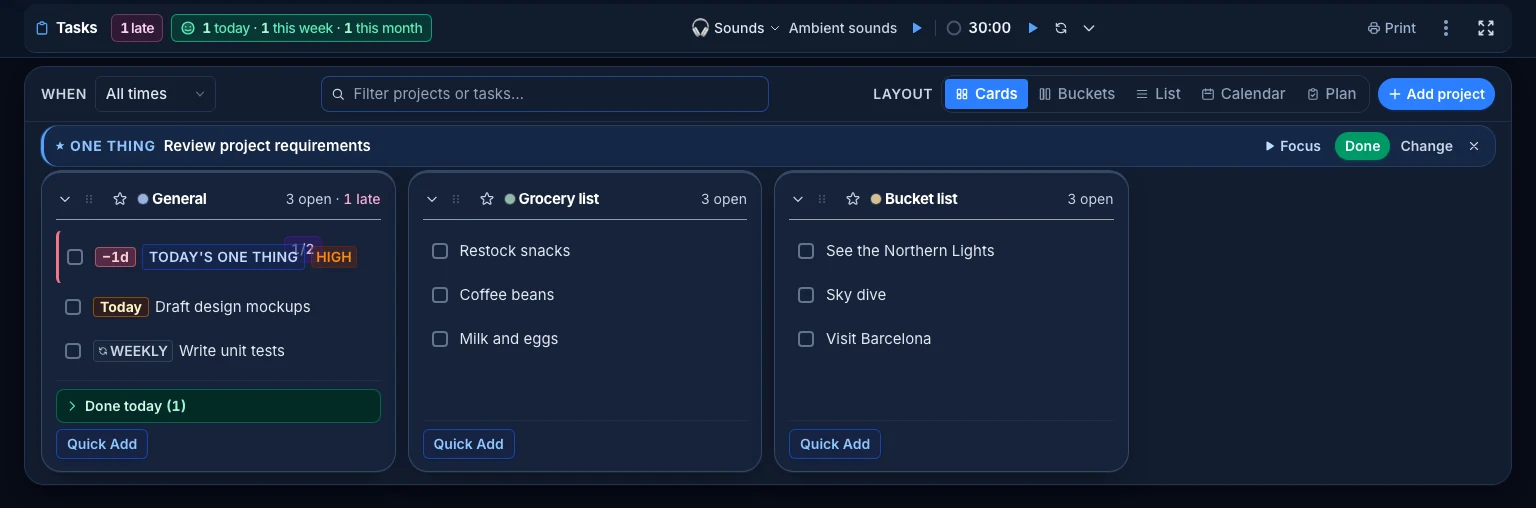
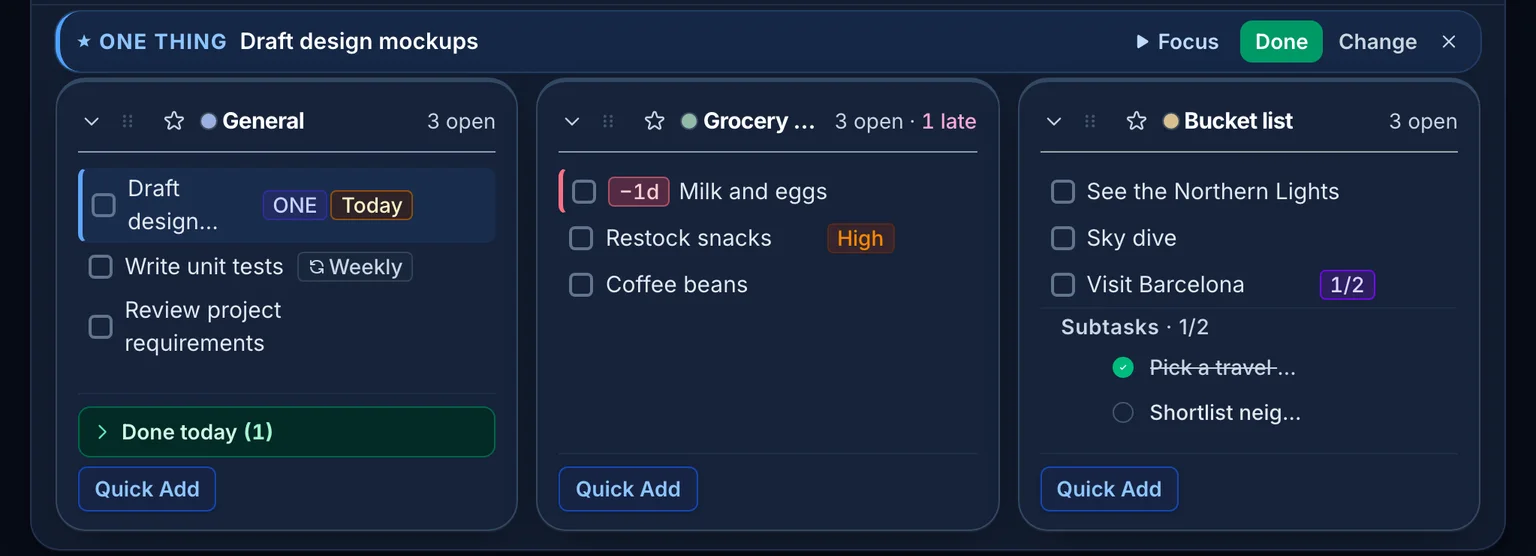
Put navbar tools in one chrome family, and refresh the homepage board preview.

diff --git a/src/components/Navbar.tsx b/src/components/Navbar.tsx
@@ -19,9 +19,9 @@ import { appViewPath, isExactTasksAppPath, isTasksAppPath } from "@/lib/task-vie
 interface NavbarProps {
   /** When set (e.g. on /app), shows a settings button in the nav bar. */
   onOpenSettings?: () => void;
-  /** Extra actions shown before theme toggle (e.g. collaboration invites on /app). */
+  /** App tools (due bell, sharing) — sits with Settings, before theme + avatar. */
   toolbarSlot?: ReactNode;
-  /** Optional center content between logo and nav links (kept empty by default — promo belongs outside the task workspace). */
+  /** Optional center content between logo and nav links (clock, weather, partner promo). */
   centerSlot?: ReactNode;
 }
 
@@ -59,9 +59,8 @@ function navLinkClass(active: boolean, mobile = false) {
     : "nav-chrome-link text-[0.9375rem] transition-colors";
 }
 
-const chromeBtn = "nav-chrome-btn rounded-lg";
-const chromeBtnPad = `${chromeBtn} p-2`;
-const chromeBtnSettings = `${chromeBtn} flex items-center gap-1.5 px-2.5 py-1.5 rounded-lg text-[0.9375rem]`;
+const chromeIconBtn = "nav-chrome-icon-btn";
+const chromeLabelBtn = "nav-chrome-label-btn";
 
 function NavbarContent({ onOpenSettings, toolbarSlot, centerSlot }: NavbarProps) {
   const { user } = useAuth();
@@ -214,12 +213,11 @@ function NavbarContent({ onOpenSettings, toolbarSlot, centerSlot }: NavbarProps)
             ) : null}
             <div className="flex items-center gap-0.5">
               {toolbarSlot}
-              <ThemeToggle className={chromeBtnPad} />
               {onOpenSettings && (
                 <button
                   type="button"
                   onClick={onOpenSettings}
-                  className={chromeBtnSettings}
+                  className={chromeLabelBtn}
                   aria-label="Open settings"
                   title="Timer and app settings"
                 >
@@ -228,6 +226,10 @@ function NavbarContent({ onOpenSettings, toolbarSlot, centerSlot }: NavbarProps)
                 </button>
               )}
             </div>
+            {toolbarSlot || onOpenSettings ? (
+              <span className="nav-chrome-divider w-px h-4 mx-2 rounded-full self-center" aria-hidden />
+            ) : null}
+            <ThemeToggle className={chromeIconBtn} />
             {user ? (
               <div className="ml-1.5">
                 <UserMenu />
@@ -243,30 +245,31 @@ function NavbarContent({ onOpenSettings, toolbarSlot, centerSlot }: NavbarProps)
           </div>
 
           <div className="flex roomy:hidden items-center gap-0.5 ml-auto">
-            <ThemeToggle className={`${chromeBtnPad} touch-target-sm`} />
+            <ThemeToggle className={`${chromeIconBtn} touch-target-sm`} />
             {onOpenSettings && (
               <button
                 type="button"
                 onClick={onOpenSettings}
-                className={`${chromeBtnPad} touch-target-sm`}
+                className={`${chromeIconBtn} touch-target-sm`}
                 aria-label="Open settings"
                 title="Settings"
               >
-                <SettingsIcon className="w-5 h-5" />
+                <SettingsIcon className="w-4 h-4" />
               </button>
             )}
             <button
+              type="button"
               onClick={() => setMenuOpen(!menuOpen)}
-              className={`${chromeBtnPad} touch-target-sm`}
+              className={`${chromeIconBtn} touch-target-sm`}
               aria-label="Toggle menu"
               aria-expanded={menuOpen}
             >
               {menuOpen ? (
-                <svg className="w-5 h-5" fill="none" stroke="currentColor" viewBox="0 0 24 24">
+                <svg className="w-4 h-4" fill="none" stroke="currentColor" viewBox="0 0 24 24">
                   <path strokeLinecap="round" strokeLinejoin="round" strokeWidth={2} d="M6 18L18 6M6 6l12 12" />
                 </svg>
               ) : (
-                <svg className="w-5 h-5" fill="none" stroke="currentColor" viewBox="0 0 24 24">
+                <svg className="w-4 h-4" fill="none" stroke="currentColor" viewBox="0 0 24 24">
                   <path strokeLinecap="round" strokeLinejoin="round" strokeWidth={2} d="M4 6h16M4 12h16M4 18h16" />
                 </svg>
               )}

diff --git a/src/app/globals.css b/src/app/globals.css
@@ -175,37 +175,46 @@ select {
   background-color: rgba(59, 130, 246, 0.14);
 }
 
-.nav-chrome-btn {
+.nav-chrome-btn,
+.nav-chrome-icon-btn,
+.nav-chrome-label-btn {
   color: #475569;
   font-weight: 600;
   transition: color 0.15s ease, background-color 0.15s ease, border-color 0.15s ease;
 }
-.nav-chrome-btn:hover {
+.nav-chrome-btn:hover,
+.nav-chrome-icon-btn:hover,
+.nav-chrome-label-btn:hover {
   color: #0f172a;
   background-color: rgba(15, 23, 42, 0.05);
 }
-.dark .nav-chrome-btn {
+.dark .nav-chrome-btn,
+.dark .nav-chrome-icon-btn,
+.dark .nav-chrome-label-btn {
   color: #cbd5e1;
 }
-.dark .nav-chrome-btn:hover {
+.dark .nav-chrome-btn:hover,
+.dark .nav-chrome-icon-btn:hover,
+.dark .nav-chrome-label-btn:hover {
   color: #f8fafc;
   background-color: rgba(255, 255, 255, 0.08);
 }
 
-.nav-icon-btn {
-  color: #64748b;
-  transition: color 0.15s ease, background-color 0.15s ease;
+.nav-chrome-icon-btn {
+  display: inline-flex;
+  align-items: center;
+  justify-content: center;
+  padding: 0.5rem;
+  border-radius: 0.5rem;
 }
-.nav-icon-btn:hover {
-  color: #0f172a;
-  background-color: rgba(15, 23, 42, 0.05);
-}
-.dark .nav-icon-btn {
-  color: #94a3b8;
-}
-.dark .nav-icon-btn:hover {
-  color: #f8fafc;
-  background-color: rgba(255, 255, 255, 0.08);
+.nav-chrome-label-btn {
+  display: inline-flex;
+  align-items: center;
+  gap: 0.375rem;
+  padding: 0.375rem 0.625rem;
+  border-radius: 0.5rem;
+  font-size: 0.9375rem;
+  letter-spacing: -0.015em;
 }
 
 .nav-chrome-divider {
@@ -257,25 +266,23 @@ select {
   color: #475569;
 }
 
-/* Partner promo chip — visible but subordinate to brand + CTAs */
+/* Partner promo chip — dashed so it reads as an ad, not a nav control */
 .nav-chrome-promo {
-  border: 2px solid rgba(15, 23, 42, 0.12);
-  background: #ffffff;
-  box-shadow: 0 1px 2px rgba(15, 23, 42, 0.06);
-  transition: border-color 0.15s ease, background-color 0.15s ease, box-shadow 0.15s ease;
+  border: 1px dashed rgba(15, 23, 42, 0.2);
+  background: rgba(248, 250, 252, 0.92);
+  transition: border-color 0.15s ease, background-color 0.15s ease;
 }
 .nav-chrome-promo:hover {
-  border-color: rgba(15, 23, 42, 0.2);
+  border-color: rgba(15, 23, 42, 0.32);
   background: #ffffff;
-  box-shadow: 0 2px 8px rgba(15, 23, 42, 0.1);
 }
 .dark .nav-chrome-promo {
-  border-color: rgba(255, 255, 255, 0.18);
-  background: rgba(15, 23, 42, 0.85);
+  border-color: rgba(255, 255, 255, 0.2);
+  background: rgba(15, 23, 42, 0.6);
 }
 .dark .nav-chrome-promo:hover {
-  border-color: rgba(255, 255, 255, 0.28);
-  background: rgba(15, 23, 42, 0.95);
+  border-color: rgba(255, 255, 255, 0.32);
+  background: rgba(15, 23, 42, 0.85);
 }
 
 /* Landing page hero warm gradient — light and dark */

diff --git a/src/components/CollaborationInvitesButton.tsx b/src/components/CollaborationInvitesButton.tsx
@@ -209,11 +209,9 @@ export default function CollaborationInvitesButton() {
     <div className="relative" ref={panelRef}>
       <button
         onClick={() => setShowPanel((prev) => !prev)}
-        className={`relative nav-icon-btn rounded-lg sm:rounded-lg ${
-          showPanel
-            ? "bg-slate-100 dark:bg-white/10 text-slate-900 dark:text-white"
-            : ""
-        } p-2 sm:flex sm:items-center sm:gap-1.5 sm:px-2.5 sm:py-2 sm:border sm:border-transparent sm:hover:border-slate-200 dark:sm:hover:border-white/10`}
+        className={`relative nav-chrome-label-btn ${
+          showPanel ? "bg-slate-100 dark:bg-white/10 text-slate-900 dark:text-white" : ""
+        }`}
         aria-label={
           inviteCount > 0
             ? `Sharing: ${inviteCount} pending invite${inviteCount !== 1 ? "s" : ""}`
@@ -235,7 +233,7 @@ export default function CollaborationInvitesButton() {
           fill="none"
           viewBox="0 0 24 24"
           stroke="currentColor"
-          className="w-5 h-5"
+          className="w-4 h-4 opacity-80"
           aria-hidden
         >
           <path
@@ -245,10 +243,10 @@ export default function CollaborationInvitesButton() {
             d="M12 4.354a4 4 0 110 5.292M15 21H3v-1a6 6 0 0112 0v1zm0 0h6v-1a6 6 0 00-9-5.197M13 7a4 4 0 11-8 0 4 4 0 018 0z"
           />
         </svg>
-        <span className="hidden sm:inline text-sm font-medium">Sharing</span>
+        <span>Sharing</span>
 
         {badgeCount > 0 && (
-          <span className="absolute -top-0.5 -right-0.5 sm:static sm:ml-0.5 min-w-[18px] h-[18px] flex items-center justify-center text-xs app-badge text-white bg-blue-700 rounded-full px-1">
+          <span className="min-w-[18px] h-[18px] flex items-center justify-center text-xs app-badge text-white bg-blue-700 rounded-full px-1">
             {badgeCount > 9 ? "9+" : badgeCount}
           </span>
         )}

diff --git a/src/components/FilantusCrossPromoBanner.tsx b/src/components/FilantusCrossPromoBanner.tsx
@@ -394,7 +394,7 @@ export function FilantusCrossPromoBanner({
       role="complementary"
       aria-label="Partner promo"
     >
-      <div className="flex items-stretch h-10 box-border rounded-lg border border-dashed border-slate-300/90 dark:border-slate-600/70 bg-slate-50/90 dark:bg-slate-900/60 overflow-hidden">
+      <div className="nav-chrome-promo flex items-stretch h-10 box-border rounded-lg overflow-hidden">
         <a
           href={href}
           target="_blank"
@@ -426,7 +426,7 @@ export function FilantusCrossPromoBanner({
             </span>
           </span>
           <span className="shrink-0 text-[10px] font-semibold px-1.5 py-0.5 rounded-md whitespace-nowrap text-slate-600 dark:text-slate-300 border border-slate-300/80 dark:border-slate-600/70 group-hover:border-blue-400 group-hover:text-blue-700 dark:group-hover:text-blue-300 transition-colors">
-            Try →
+            Try
           </span>
         </a>
         {showNext ? (
@@ -438,7 +438,7 @@ export function FilantusCrossPromoBanner({
           >
             <svg width="14" height="14" viewBox="0 0 24 24" fill="none" aria-hidden="true">
               <path
-                d="M9 5l7 7-7 7"
+                d="M4 4v5h.582m15.356 2A8.001 8.001 0 004.582 9m0 0H9m11 11v-5h-.581m0 0a8.003 8.003 0 01-15.357-2m15.357 2H15"
                 stroke="currentColor"
                 strokeWidth="2.25"
                 strokeLinecap="round"

diff --git a/src/components/ThemeToggle.tsx b/src/components/ThemeToggle.tsx
@@ -15,12 +15,12 @@ export default function ThemeToggle({ className }: ThemeToggleProps) {
     <button
       type="button"
       onClick={() => setTheme(isDark ? "light" : "dark")}
-      className={className ?? "relative nav-icon-btn p-2 rounded-full"}
+      className={className ?? "nav-chrome-icon-btn"}
       aria-label={isDark ? "Switch to light mode" : "Switch to dark mode"}
       title={isDark ? "Light mode" : "Dark mode"}
     >
       {isDark ? (
-        <svg className="w-5 h-5" fill="none" stroke="currentColor" viewBox="0 0 24 24" aria-hidden>
+        <svg className="w-4 h-4" fill="none" stroke="currentColor" viewBox="0 0 24 24" aria-hidden>
           <path
             strokeLinecap="round"
             strokeLinejoin="round"
@@ -29,7 +29,7 @@ export default function ThemeToggle({ className }: ThemeToggleProps) {
           />
         </svg>
       ) : (
-        <svg className="w-5 h-5" fill="none" stroke="currentColor" viewBox="0 0 24 24" aria-hidden>
+        <svg className="w-4 h-4" fill="none" stroke="currentColor" viewBox="0 0 24 24" aria-hidden>
           <path
             strokeLinecap="round"
             strokeLinejoin="round"

diff --git a/src/components/DueRemindersButton.tsx b/src/components/DueRemindersButton.tsx
@@ -131,7 +131,7 @@ export default function DueRemindersButton() {
           setShowPanel((v) => !v);
           if (!showPanel) void load();
         }}
-        className="relative touch-target-sm p-1.5 rounded-lg text-slate-500 dark:text-slate-400 hover:text-slate-800 dark:hover:text-white hover:bg-slate-100 dark:hover:bg-white/10 transition-colors"
+        className="relative nav-chrome-icon-btn"
         aria-label={
           badgeCount > 0
             ? `Due tasks: ${overdueCount} overdue, ${todayCount} due today`
@@ -140,7 +140,7 @@ export default function DueRemindersButton() {
         aria-expanded={showPanel}
         title="Due & overdue"
       >
-        <svg className="w-5 h-5" fill="none" stroke="currentColor" viewBox="0 0 24 24" aria-hidden>
+        <svg className="w-4 h-4" fill="none" stroke="currentColor" viewBox="0 0 24 24" aria-hidden>
           <path
             strokeLinecap="round"
             strokeLinejoin="round"

diff --git a/src/components/WhatsNewBanner.tsx b/src/components/WhatsNewBanner.tsx
@@ -65,12 +65,12 @@ export default function WhatsNewBanner({ focusMode, headless }: WhatsNewBannerPr
         <button
           type="button"
           onClick={() => setOpen((o) => !o)}
-          className="relative nav-icon-btn p-2 rounded-full hover:!text-blue-400"
+          className="relative nav-chrome-icon-btn hover:!text-blue-400"
           aria-label={unseen ? "What's new — unread updates" : "What's new"}
           aria-expanded={open}
           title="What's new"
         >
-          <svg className="w-5 h-5" fill="none" stroke="currentColor" viewBox="0 0 24 24" aria-hidden>
+          <svg className="w-4 h-4" fill="none" stroke="currentColor" viewBox="0 0 24 24" aria-hidden>
             <path
               strokeLinecap="round"
               strokeLinejoin="round"

diff --git a/src/components/WeatherTime.tsx b/src/components/WeatherTime.tsx
@@ -159,7 +159,7 @@ export default function WeatherTime({ compact = false, embedded = false, nav = f
         </span>
         {weather && (
           <>
-            <span className="h-3.5 w-px bg-slate-200/90 dark:bg-white/10 shrink-0 mx-1.5 sm:mx-2" aria-hidden />
+            <span className="nav-chrome-divider w-px h-3.5 shrink-0 mx-1.5 sm:mx-2 rounded-full" aria-hidden />
             <span className="text-[0.875rem] leading-none shrink-0" aria-hidden>
               {weather.icon}
             </span>

diff --git a/src/components/UserMenu.tsx b/src/components/UserMenu.tsx
@@ -72,7 +72,7 @@ export default function UserMenu() {
     <div className="relative" ref={menuRef}>
       <button
         onClick={() => setOpen(!open)}
-        className="flex items-center gap-2 rounded-full p-1.5 hover:bg-slate-100 dark:hover:bg-white/10 transition-colors"
+        className="nav-chrome-btn rounded-full p-1.5"
         aria-label="User menu"
         aria-expanded={open}
       >

diff --git a/src/components/HomeAppMockup.tsx b/src/components/HomeAppMockup.tsx
@@ -21,7 +21,7 @@ export default function HomeAppMockup() {
           src="/home-app-preview.webp"
           alt="Foci task board with projects organized as cards"
           width={1536}
-          height={508}
+          height={556}
           className="w-full h-auto block"
           decoding="async"
           fetchPriority="high"
